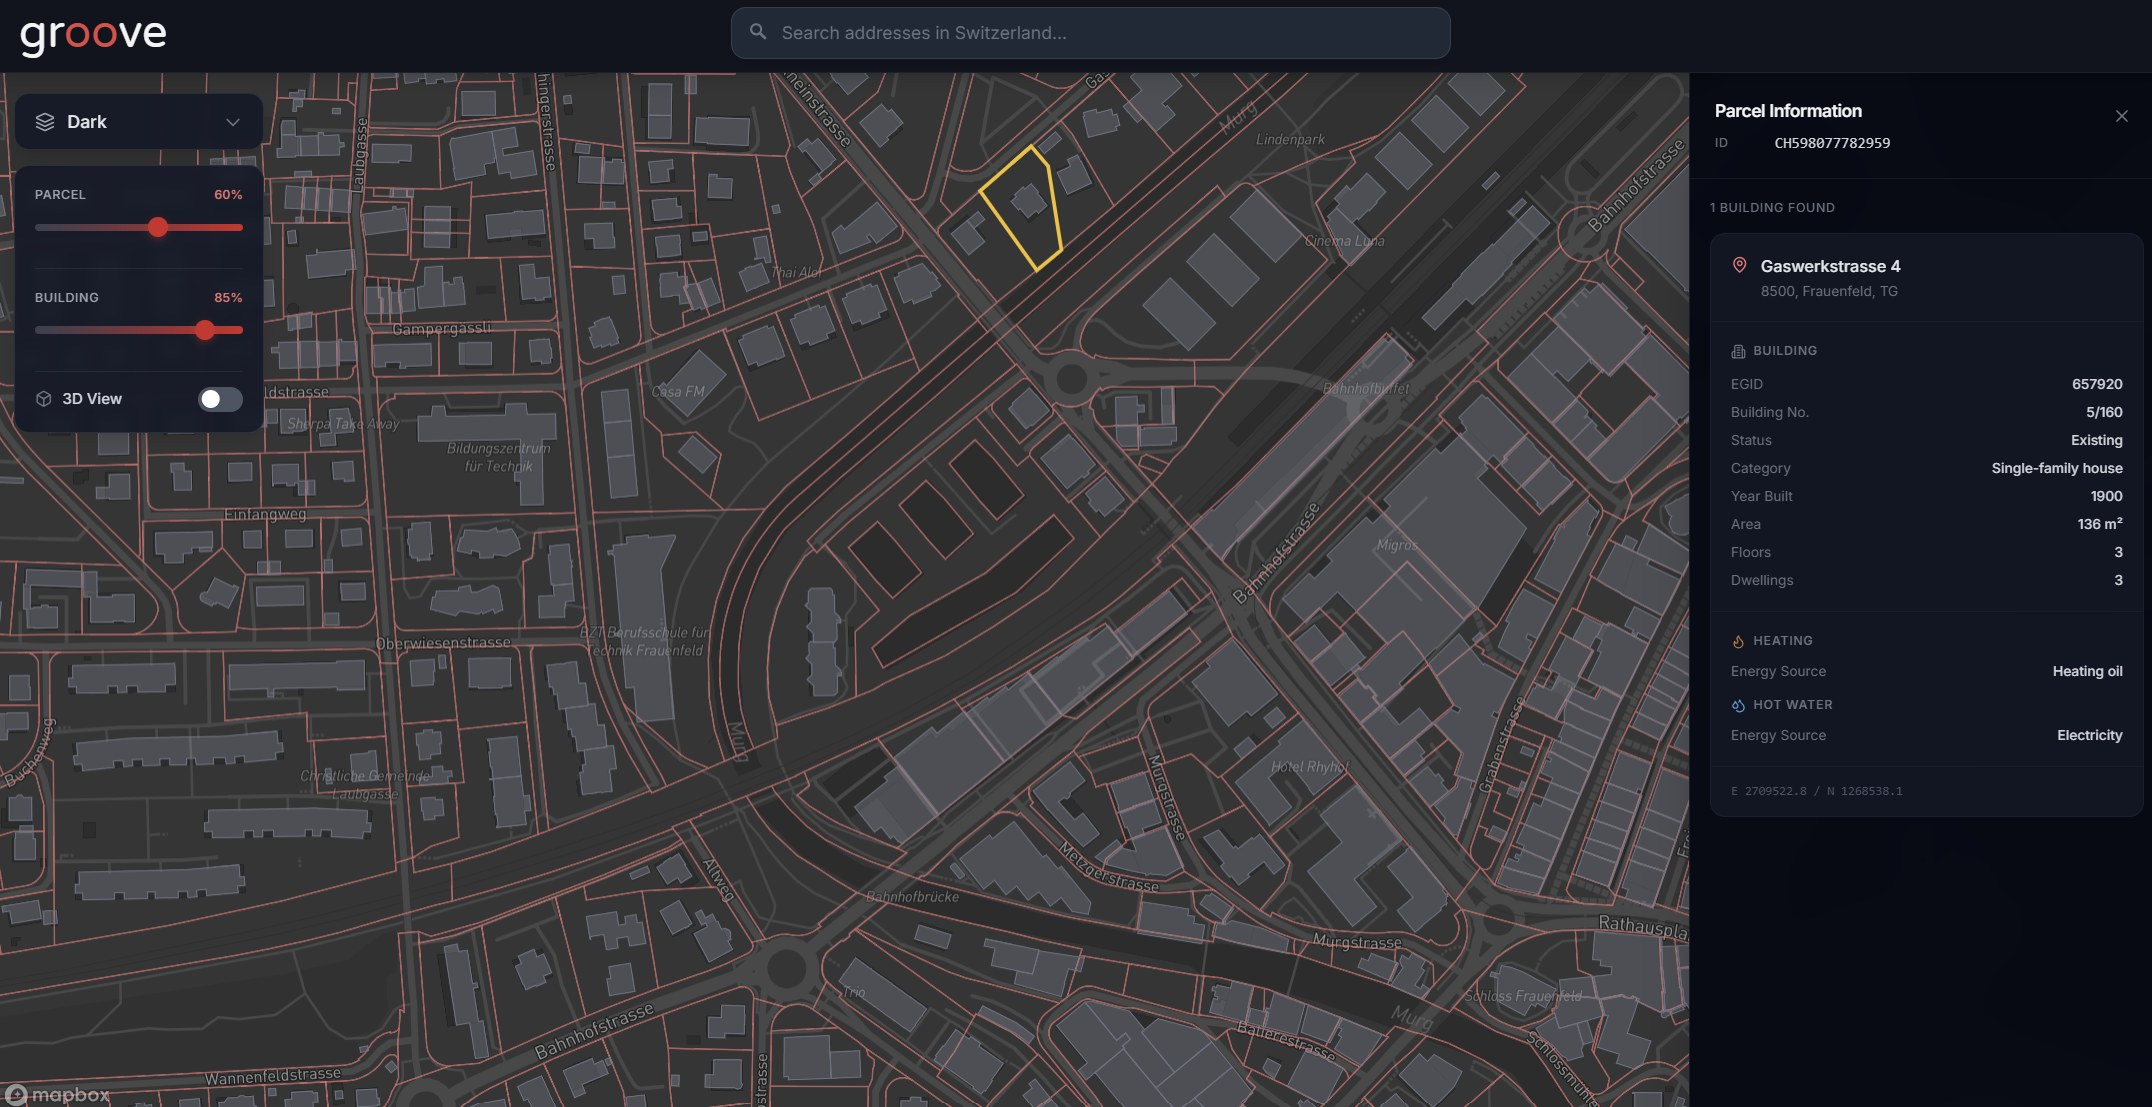
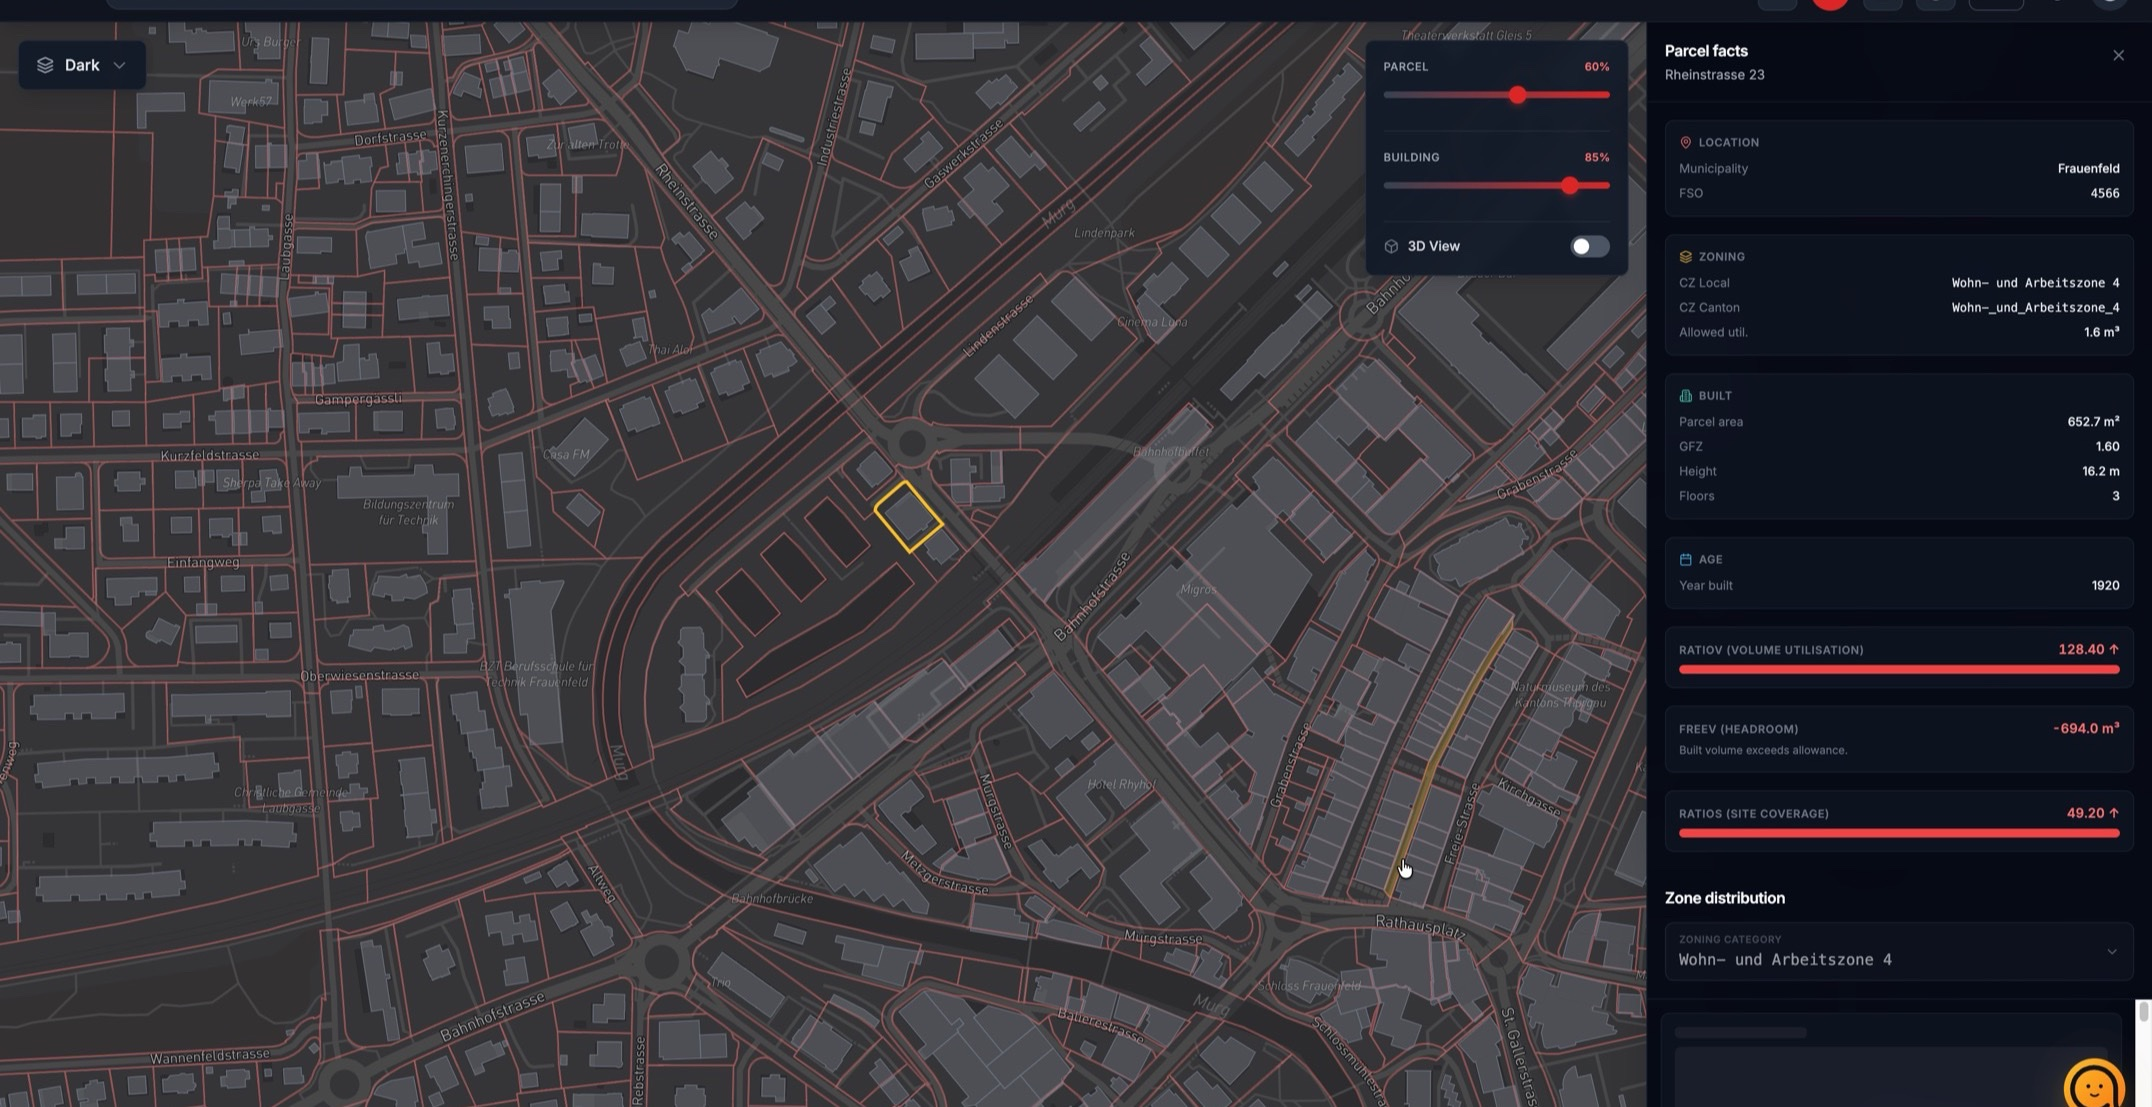
chore(meta): use real screenshot for og-image (v0.1.2)
Replaces the placeholder Bolt og-image with a 2152×1107 frame of room
in use (zone choropleth + distribution panel). Same dimensions as the
existing og:image meta, so no index.html change needed.

diff --git a/src/data/releaseNotes.ts b/src/data/releaseNotes.ts
@@ -1,5 +1,5 @@
 import {
-  Sparkles, BarChart3, Activity, Layers, Map, BookOpen, ScatterChart,
+  Sparkles, BarChart3, Activity, Layers, Map, BookOpen, ScatterChart, Image,
 } from 'lucide-react';
 import type { ChangeKind, ChangeItem, Release } from '@swissnovo/shared';
 
@@ -9,6 +9,21 @@ export { KIND_META } from '@swissnovo/shared';
 // Newest first. Versioning follows SemVer. room is pre-1.0 while the data
 // model and visualisations stabilise.
 export const RELEASES: Release[] = [
+  {
+    version: '0.1.2',
+    date: 'May 24, 2026',
+    codename: 'Link Preview',
+    summary:
+      'Sharing a room link in Slack, WhatsApp, Discord, Teams etc. now shows a real screenshot of the app — the choropleth map with the zone-density panel — instead of the placeholder Bolt image.',
+    items: [
+      {
+        kind: 'improved' as ChangeKind,
+        icon: Image,
+        text: 'public/og-image.jpg replaced with a 2152×1107 frame of room in use (zone choropleth + distribution panel). Same dimensions as the existing og:image meta, so no index.html changes needed.',
+        prs: [],
+      },
+    ],
+  },
   {
     version: '0.1.1',
     date: 'May 24, 2026',